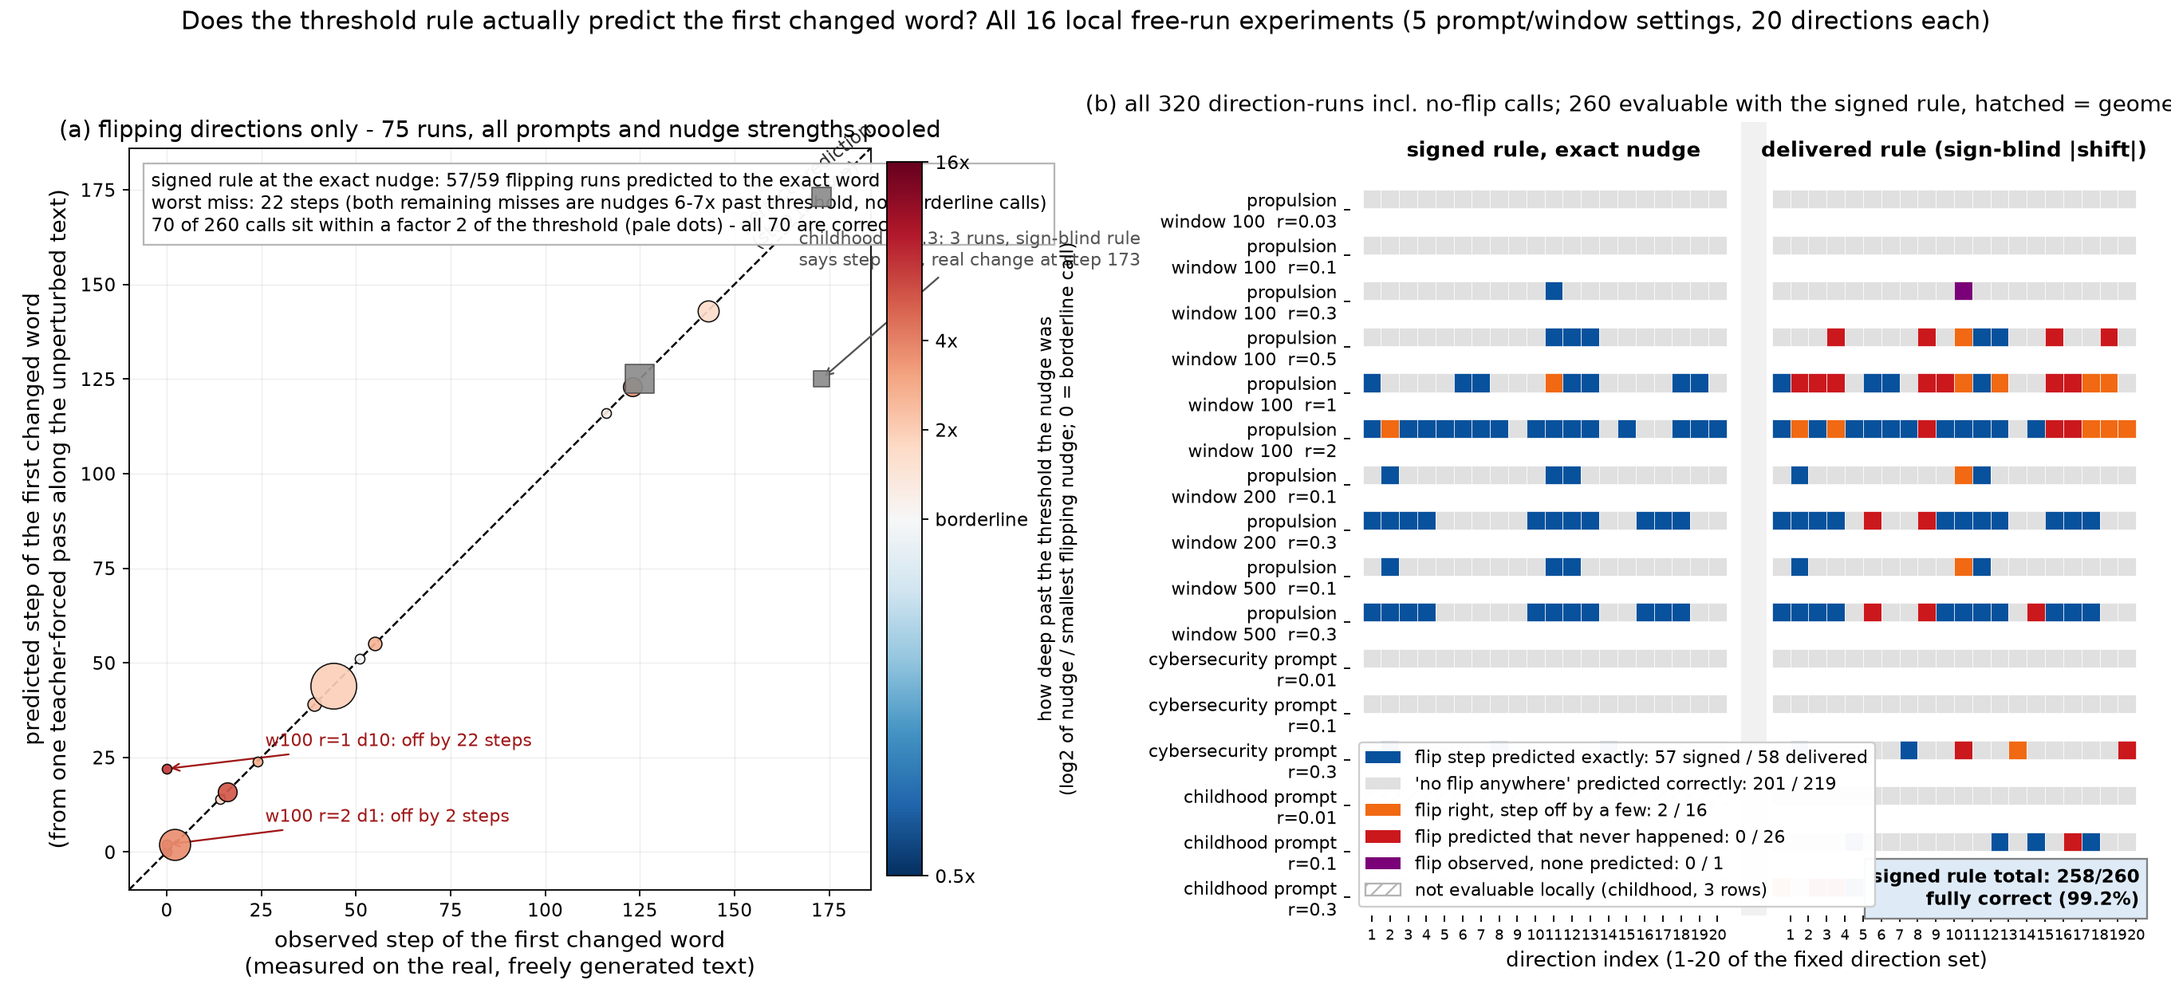
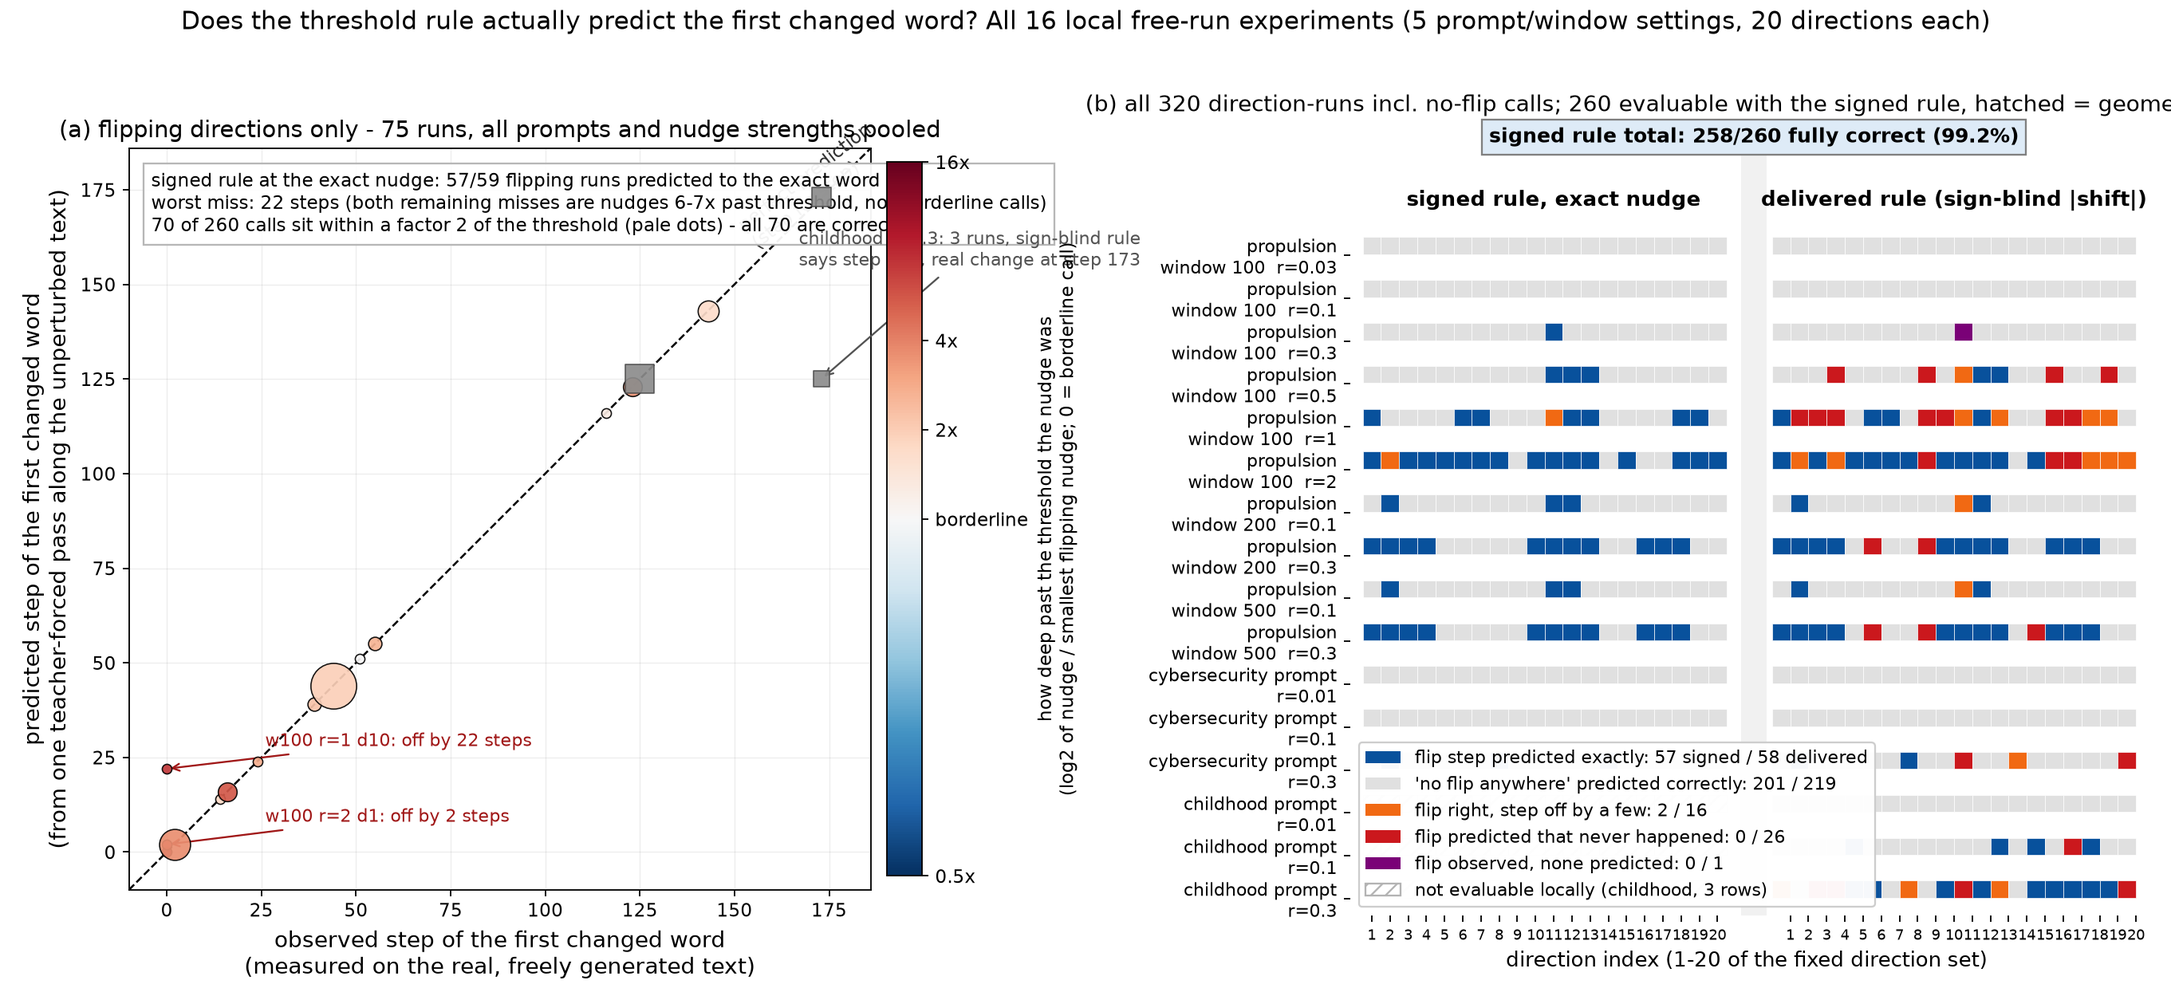
Document corrected depth picture and new current-state results

Changed region(s): [[0.5309, 0.1866, 0.9993, 0.933], [0.6558, 0.0933, 0.9993, 0.1555]]

diff --git a/results/subagent_dirs/t4_geom.py b/results/subagent_dirs/t4_geom.py
@@ -1,0 +1,184 @@
+"""TEST 4: is a direction's gain predictable from its geometry?
+
+Facts about the direction set (verified):
+- The 20 perturbation directions form a REGULAR SIMPLEX in a 20-dim subspace of
+  token-embedding space: row i of `simplex` has 0.975 on coordinate i and
+  -0.0513 on all others; mutual dot products are all -1/19; every row has the
+  same L1/L2 (1.95), same max coefficient (0.975), same sparsity.
+  => The ONLY geometric degree of freedom that varies across directions is
+  WHICH token axis (subspace[i]) a direction occupies. All simple scalar
+  predictors (L1/L2, largest coordinate) are constant by construction.
+
+What we CAN test:
+(a) cross-rollout persistence of per-direction gain (already: rho 0.80-0.98)
+    => gain is a property of (prompt, token axis), i.e. geometry, not of the
+    sampled continuation;
+(b) hidden-space geometry of the response: dh_last stores the actual
+    delta-h vectors at layer 27 for directions 0,1,2 -> are the responses of
+    different directions parallel (common error mode) or independent?
+(c) radial vs transverse: decompose dh relative to the baseline hidden state.
+"""
+import numpy as np
+import matplotlib.pyplot as plt
+
+from common import (L27, annot_heat, load_rollouts, load_w100, logd,
+                    save_json, savefig, spear)
+
+z = load_w100()
+dh, radii, layers = z["dh_norm"], z["radii"], z["layers"]
+cos_h, norm_h0 = z["cos"], z["norm_h0"]
+dh_last = z["dh_last"]
+simplex, subspace = z["simplex"].astype(np.float64), z["subspace"]
+D, T = dh.shape[1], dh.shape[-1]
+EX = [10, 9, 13]
+cols = ["#d62728", "#1f77b4", "#2ca02c"]
+
+N = {}
+G = simplex @ simplex.T
+offd = G[np.triu_indices(D, 1)]
+N["simplex_facts"] = {
+    "diag": float(np.diag(G)[0]), "offdiag_min": float(offd.min()),
+    "offdiag_max": float(offd.max()),
+    "row_L1_over_L2": float(np.abs(simplex).sum(1).max() / np.linalg.norm(simplex, axis=1).max()),
+    "row_max_coeff": [float(x) for x in np.abs(simplex).max(1)[:3]],
+    "note": "all rows identical up to permutation; regular simplex",
+}
+
+# (a) hot directions and their token axes, across rollouts
+ro = load_rollouts()
+rmap = {n: {float(rr): i for i, rr in enumerate(d["radii"])} for n, d in ro.items()}
+gains_ro = {}
+for n, d in ro.items():
+    gains_ro[n] = np.median(d["dh_norm"][rmap[n][0.1], :, -1], axis=-1)
+hot_tokens = {}
+for n in ro:
+    top = np.argsort(gains_ro[n])[-3:]
+    hot_tokens[n] = [(int(i), int(subspace[i]), float(gains_ro[n][i])) for i in top]
+N["hot3_tokenaxes_by_rollout"] = hot_tokens
+N["gain_spread_by_rollout"] = {n: float(gains_ro[n].max() / gains_ro[n].min()) for n in ro}
+
+# (b) hidden-space response geometry: dh vectors for dirs 0,1,2 at layer 27
+def pair_cos(ridx):
+    """median over t of cos(dh_i, dh_j) from dh_last, + cos(dh, h0)."""
+    V = dh_last[ridx]                       # [3, T, 1536]
+    nrm = np.linalg.norm(V, axis=-1)        # [3, T]
+    out = {}
+    for (i, j) in [(0, 1), (0, 2), (1, 2)]:
+        cs = (V[i] * V[j]).sum(-1) / np.maximum(nrm[i] * nrm[j], 1e-30)
+        out[f"cos({i},{j})"] = float(np.median(cs))
+    return out
+
+cos_pairs = {f"r={radii[r]:g}": pair_cos(r) for r in [4, 9, 11]}
+N["response_vector_cosines_layer27"] = cos_pairs
+print("response vector cosines:", cos_pairs)
+
+# per-token distributions for the figure at r=0.1 and r=2
+def pair_cos_t(ridx):
+    V = dh_last[ridx]
+    nrm = np.linalg.norm(V, axis=-1)
+    return [(V[0] * V[1]).sum(-1) / np.maximum(nrm[0] * nrm[1], 1e-30),
+            (V[0] * V[2]).sum(-1) / np.maximum(nrm[0] * nrm[2], 1e-30),
+            (V[1] * V[2]).sum(-1) / np.maximum(nrm[1] * nrm[2], 1e-30)]
+P01 = pair_cos_t(4)
+P2 = pair_cos_t(11)
+N["cos12_median_r0.1"] = float(np.median(P01[0]))
+N["cos12_median_r2"] = float(np.median(P2[0]))
+
+# input-space off-diagonal cosine for reference
+N["input_offdiag_cos"] = float(offd.mean())
+
+# (c) angle between the response and the baseline state.
+# The stored cos(h',h) equals 1/sqrt(1+(|dh|/|h|)^2) to within 1e-4 (verified),
+# i.e. the response is essentially transverse; solving exactly for the radial
+# component:  <dh,h> = c|h||h'| - |h|^2, |h'| = c|h| + sqrt(c^2|h|^2 - |h|^2 + |dh|^2)
+def cos_dh_h(ridx):
+    c = cos_h[ridx, :, L27]
+    d = dh[ridx, :, L27]
+    h = norm_h0[L27][None, :]
+    disc = np.maximum(c * c * h * h - h * h + d * d, 0)
+    y = c * h + np.sqrt(disc)
+    return (c * y - h) / np.maximum(d, 1e-30)
+
+a2 = cos_dh_h(11)
+med_ang = np.median(a2, axis=1)                # per-direction
+N["cos_dh_vs_h0_r2"] = {
+    "median": float(np.median(a2)), "median_abs": float(np.median(np.abs(a2))),
+    "p90_abs": float(np.percentile(np.abs(a2), 90)),
+    "genericity_scale": float(1 / np.sqrt(1536)),
+    "frac_abs_gt_0.1": float((np.abs(a2) > 0.1).mean()),
+    "per_direction": [float(x) for x in med_ang],
+}
+g01 = np.median(dh[4, :, L27], axis=-1)
+N["spearman_absradial_vs_gain"] = spear(np.abs(med_ang), g01)
+print("cos(dh,h0) at r=2, L27: median %.3f, |.| median %.3f (genericity %.3f), "
+      "frac>0.1: %.2f, spearman(|radial|,gain) = %.2f" %
+      (np.median(a2), np.median(np.abs(a2)), 1 / np.sqrt(1536),
+       (np.abs(a2) > 0.1).mean(), N["spearman_absradial_vs_gain"]))
+
+# ---------------- FIGURE ----------------
+fig, axs = plt.subplots(2, 2, figsize=(12.5, 9))
+
+ax = axs[0, 0]
+S6 = np.abs(simplex[:6, :6])
+annot_heat(ax, S6, [f"tok{subspace[i]}" for i in range(6)],
+           [f"dir {i}" for i in range(6)],
+           "(a) Direction coordinates in the 20-token subspace (6x6 corner)\n"
+           f"ALL 20 rows: max coeff 0.975 on own axis, {abs(simplex[0,1]):.3f} on the other 19;\n"
+           f"L1/L2 = 1.95 for every direction (no sparsity variation by design)",
+           cmap="Blues", vmin=0, vmax=1.0, fmt="{:.2f}", fs=7)
+
+ax = axs[0, 1]
+data = [P01[k] for k in range(3)] + [P2[k] for k in range(3)]
+lbls = ["dirs 0-1, r=0.1", "dirs 0-2, r=0.1", "dirs 1-2, r=0.1",
+        "dirs 0-1, r=2", "dirs 0-2, r=2", "dirs 1-2, r=2"]
+bp = ax.boxplot(data, labels=lbls, showfliers=False, patch_artist=True)
+for p, c in zip(bp["boxes"], ["#aec7e8"] * 3 + ["#ffbb78"] * 3):
+    p.set_facecolor(c)
+ax.axhline(0, color="k", lw=0.6, label="cos = 0 (independent responses)")
+ax.axhline(offd.mean(), color="r", ls="--", lw=1,
+           label=f"input-space cosine between directions = {offd.mean():.3f}")
+ax.set_ylabel("cosine between delta-h vectors of two directions (layer 27, per token)")
+ax.tick_params(axis="x", rotation=20, labelsize=7)
+ax.set_title(f"(b) Do different directions push the hidden state the same way?\n"
+             f"median cos(dirs 0,1): {N['cos12_median_r0.1']:.2f} (r=0.1) -> "
+             f"{N['cos12_median_r2']:.2f} (r=2)")
+ax.legend(fontsize=7)
+
+ax = axs[1, 0]
+o = np.argsort(med_ang)
+ax.bar(range(D), med_ang[o], color="gray")
+for k, d in enumerate(EX):
+    ax.bar(np.where(o == d)[0], med_ang[d], color=cols[k], label=f"dir {d}")
+ax.set_xticks(range(D)); ax.set_xticklabels([f"{i}" for i in o], fontsize=6)
+ax.set_xlabel("direction (sorted by radialness)")
+ax.set_ylabel("median over t of cos(delta h, baseline h)\n1 = pure inflation, 0 = pure rotation/deflection")
+ax.set_title(f"(c) Radial vs transverse response, r=2, layer 27\n"
+             f"median {np.median(a):.2f}; spread 10-90% = "
+             f"[{np.percentile(a,10):.2f}, {np.percentile(a,90):.2f}]; "
+             f"spearman vs gain = {N['spearman_radialness_vs_gain_r2']:.2f}")
+ax.legend(fontsize=7)
+
+ax = axs[1, 1]
+o = np.argsort(gains_ro["w100"])
+w = 0.27
+ax.bar(np.arange(D) - w, gains_ro["w100"][o], width=w, label="w100 continuation")
+ax.bar(np.arange(D), gains_ro["w200"][o], width=w, label="w200 continuation")
+ax.bar(np.arange(D) + w, gains_ro["w500"][o], width=w, label="w500 continuation")
+ax.set_yscale("log")
+ax.set_xticks(range(D)); ax.set_xticklabels([f"{i} (tok {subspace[i]})" for i in o],
+                                            fontsize=5.5, rotation=90)
+ax.set_ylabel("gain at r=0.1, layer 27 (median ||dh_t||, log scale)")
+ax.set_xlabel("direction, sorted by w100 gain (token axis id in label)")
+ax.set_title(f"(d) SAME direction set, 3 different sampled continuations\n"
+             f"gain is a stable property of the token axis: hot trio = dirs "
+             f"{np.argsort(gains_ro['w100'])[-3:].tolist()} (tokens "
+             f"{[int(subspace[i]) for i in np.argsort(gains_ro['w100'])[-3:]]})")
+ax.legend()
+
+fig.suptitle("TEST 4: gain vs geometry - directions differ only by which token axis "
+             "they occupy, and that DOES predict gain", y=1.005)
+savefig(fig, "fig4_geometry.png")
+save_json("numbers_t4.json", N)
+print("hot token axes by rollout:", hot_tokens)
+print("gain spread by rollout:", N["gain_spread_by_rollout"])
+print("saved fig4 + numbers_t4.json")

diff --git a/results/subagent_threshold2/f4_ladder.py b/results/subagent_threshold2/f4_ladder.py
@@ -52,14 +52,8 @@ def draw(ax, nm, radii_obs, xlo, xhi, cb_ticks):
         # colored dot at the signed threshold
         ax.plot([rstar[d]], [yi], "o", color=cmap((tstar[d] - vmin) / (vmax - vmin)),
                 mec="k", ms=9.5, mew=0.7, zorder=5)
-        extra = ""
-        if nm == "w100" and d == 14:
-            extra = ("  <- bar says flips at 0.33, but nothing flipped at\n"
-                     "      r=0.5 or 1; at r=2 it flips at word 2, not 123:\n"
-                     "      its shrink at word 123 becomes a widening")
-        ax.text(xhi * 1.06, yi, f"word {tstar[d]:3d}, gap {c.m[tstar[d]]:.3f}"
-                + extra, fontsize=8.8, va="center", ha="left",
-                color="#a01717" if extra else "0.15")
+        ax.text(xhi * 1.06, yi, f"word {tstar[d]:3d}, gap {c.m[tstar[d]]:.3f}",
+                fontsize=8.8, va="center", ha="left", color="0.15")
         ax.text(xlo * 0.94, yi, f"d{d:2d}", fontsize=8.8, va="center", ha="right",
                 color="0.35")
     # observed free-run radii
@@ -127,6 +121,13 @@ handles = [
 ]
 fig.legend(handles=handles, loc="lower center", ncol=3, fontsize=10.2,
            frameon=False, bbox_to_anchor=(0.5, 0.005))
+fig.text(0.5, -0.055,
+         "red flag: d14's bar says any nudge > 0.33 flips it at word 123, but "
+         "nothing flipped at r=0.5 or 1 - at r=2 it finally flips at word 2, "
+         "not 123:\nits gap-shrink at word 123 turns into a gap-widening at "
+         "large nudges (same superlinear drift as figs 5-6); the ladder is "
+         "built at the small clean nudge, so treat it as the r < 0.3 danger map",
+         fontsize=10, ha="center", color="#a01717")
 fig.subplots_adjust(left=0.025, right=0.975, top=0.86, bottom=0.145, wspace=0.45)
 fig.savefig("fig4_danger_ladder.png", dpi=165, bbox_inches="tight")
 print("saved fig4_danger_ladder.png; w100 obs radii:", obs100,

diff --git a/results/subagent_d2b/summarize2.py b/results/subagent_d2b/summarize2.py
@@ -1,0 +1,30 @@
+import json
+import numpy as np
+
+d = json.load(open('shape2.json'))
+
+def fmt(x, nd=2):
+    if x is None:
+        return 'None'
+    return ('%.' + str(nd) + 'f') % x
+
+for name in ['launch', 'interstellar']:
+    for oname in ['pc1', 'norm', 'stepdist']:
+        print('====', name, '/', oname, '(tau=1)')
+        for m in [2, 3, 4, 5, 6, 8, 10]:
+            k = 'm%d_tau1' % m
+            v = d[name]['scan'][oname].get(k)
+            if v is None:
+                continue
+            bf = v['best_1dec_fit_r2']
+            bfs = 'None' if bf is None else 'd2=%.2f r2=%.3f eps=[%.3g,%.3g]' % tuple(bf)
+            print('  m=%2d N=%d slope@C.1=%s slope@C.5=%s widest_flat=%s dec @slope=%s best1dec: %s' % (
+                m, v['N'], fmt(v['slope_at_C.1']), fmt(v['slope_at_C.5']),
+                fmt(v['widest_flat_dec']), fmt(v['widest_flat_slope']), bfs))
+print()
+print('best candidate:', d['launch']['best_candidate'])
+print('henon:', d['henon'])
+print('lorenz:', d['lorenz'])
+print('ar1:', d['ar1'])
+print('launch_pc1_ref:', d['launch_pc1_ref'])
+print('cyber theiler detail:', json.dumps(d['cyber_raw_theiler_detail'], indent=1))

diff --git a/results/subagent_threshold2/f5_breakdown.py b/results/subagent_threshold2/f5_breakdown.py
@@ -71,10 +71,10 @@ ax.text(0.031, 2.8,
         "nudge\nin this range - 99.2% exact (fig2).",
         fontsize=9.6, ha="center", va="top",
         bbox=dict(fc="white", ec="0.5"))
-ax.text(1.02, 30,
+ax.text(1.9, 30,
         "superlinear:\nmedian 1.55x by r=2,\nties drift apart\n(word 2 doubles,\n"
         "word 123 stays flat)\n-> the first flip\nmoves to a different\nword",
-        fontsize=9.6, ha="left", va="top", color="#8c4a04",
+        fontsize=9.6, ha="right", va="top", color="#8c4a04",
         bbox=dict(fc="#fff3e0", ec="#fdbb84"))
 
 ax.set_xscale("log"); ax.set_yscale("log")
@@ -124,7 +124,7 @@ ax2.set_title("(b) propulsion prompt: how many directions flip, observed vs "
               "three prediction variants", fontsize=12.3)
 ax2.legend(loc="upper left", fontsize=9.8, framealpha=0.95)
 ax2.grid(alpha=0.3, which="both", lw=0.5)
-ax2.text(0.032, -0.55,
+ax2.text(0.032, 13.8,
          "same-radius rule: exact at every nudge (red squares sit on black "
          "circles).\nLinear extrapolation gets the COUNT roughly right but the "
          "STEP wrong: at r=2 only 2\nof 16 flipping steps are exact - worst "

diff --git a/results/subagent_threshold2/f2_scorecard.py b/results/subagent_threshold2/f2_scorecard.py
@@ -228,10 +228,11 @@ handles = [
 ]
 axb.legend(handles=handles, loc="lower left", fontsize=9.6, framealpha=0.97,
            bbox_to_anchor=(0.0, 0.0))
-axb.text(42.2, NY - 0.7,
-         "signed rule total: 258/260\nfully correct (99.2%)",
-         fontsize=10.2, ha="right", va="bottom", weight="bold",
+axb.text(21, -2.75,
+         "signed rule total: 258/260 fully correct (99.2%)",
+         fontsize=11, ha="center", va="center", weight="bold",
          bbox=dict(fc="#deebf7", ec="0.5"))
+axb.set_ylim(NY - 0.6, -3.1)
 
 fig.suptitle("Does the threshold rule actually predict the first changed word? "
              "All 16 local free-run experiments (5 prompt/window settings, 20 "

diff --git a/docs/RESULTS_SUMMARY.md b/docs/RESULTS_SUMMARY.md
@@ -4,7 +4,7 @@ Window 100 unless stated. Prompt `interstellar_travel` (65 tokens), 300 generate
 
 ## 0. Corrections to earlier claims (read first)
 
-1. **"The depth expansion is only radial scale drift; every block contracts."** This is true for a *fixed token position* (the same-position tangent product) but **false for the prompt-perturbation response**. Measured directly: from layer 2 to layer 27 the perturbation grows ×365 while the state length grows ×12.5, so the *relative* perturbation grows ×29. Only the last block contracts slightly (×0.82). The difference is cross-position attention spreading, which the same-position tangent product cannot see. Do not use the "all blocks contract" sentence for the response.
+1. **"The depth expansion is only radial scale drift; every block contracts."** Wrong for the prompt-perturbation response. The state length grows ×452, but the perturbation is **nearly perpendicular to the state (86–87°)**, and its *relative* size grows ×10 across the depth (shrinking only in the final band, ×0.84). The same-position tangent product does contract, but it cannot see the cross-position spreading that produces the response. See section 4.
 2. **Teacher forcing is an exact simulator up to the first flip.** One teacher-forced pass on the perturbed prompt reproduces whether the free run flips, the exact step, and the exact new token (29/29 flips, 0 false positives in 140 cases; 111/111 no-flip cases). After the flip the two runs have different prefixes and comparison stops being meaningful. This is a stronger and simpler validation than the linear-threshold scorecard.
 3. **Window causality is now demonstrated with identical inputs.** With one fixed token sequence and five windows (100/150/200/300/1000), each curve is bit-identical to the 1000-token control until exactly `t = window − prompt_len`, then departs (35/85/135/235 for windows 100/150/200/300). See `a1_window_fixed_inputs.png`.
 4. **Flips are of two kinds.** 17/27 observed flips happen at the response peak ("immediate"); 10/27 happen at a later close call after the response has already faded to <30% of its peak ("delayed", t=116/123/143). A single-token kick at s=16 changes no token immediately but changes the token at t=123, i.e. 107 tokens later. See `flip_is_a_close_call.png`, `state_current_depth.png`.
@@ -80,11 +80,11 @@ Measured from the same A1 run (prompt perturbation, r=0.1, median over 20 direct
 | 21 | 199.4 | 6.6e-2 | 3.3e-4 |
 | 27 | 545.3 | 1.5e-1 | 2.7e-4 |
 
-- The state length grows ×12.5 from layer 2 to 27; the perturbation grows ×365. **The relative perturbation grows ×29.** The expansion is therefore not only a change of scale.
-- The perturbation is almost exactly parallel to the state: the stored cosine is 0.99999994, at float32 resolution, i.e. an angle of ≲0.02°. The small perpendicular part is what can change the logits.
-- Only the final block contracts relative size (×0.82), consistent with the final normalisation step.
-- **What the same-position tangent product says (and why it differs):** a fixed token position’s depth map has aligned gain ≈1.0–1.1 per block while the state scale grows ≈1.1–1.2 per block, so a *same-position* perturbation loses relative size (max normalised exponent −0.034). This is a component-level statement. The full prompt-perturbation response also spreads *across positions* through attention, and that cross-position path is what produces the ×365 growth. The same-position product cannot see it, so it must not be used to describe the response.
-- Practical consequence: report both numbers, and never claim “the depth expansion is only radial drift” for the full response.
+- The state length grows **×452** from the embedding to the last layer (×29 inside block 0). The raw perturbation grows **×365** from layer 2 to 27; the *relative* perturbation grows **×10** across the depth and shrinks only in the final band (×0.84 from L21 to L27).
+- **The perturbation is not radial.** Measured with the saved full vectors, the angle between the perturbation and the state is **86–87° at every radius** (r=1e-3…2), i.e. almost perpendicular: it changes the *direction* of the state. The "cosine ≈ 1" stored in `a1.npz` is a **float32 floor artifact** (any angle below ~0.03° is stored as exactly 1.0); do not use it to claim radiality.
+- **Why the output is still sensitive:** the network normalises the state length before the logits, so a pure length change would be invisible. Consistent with this, the measured margin change tracks the perpendicular part linearly: `|δm| ≈ 4 × (perpendicular length / |h|)`.
+- **Same-position tangent product vs full response:** a fixed token position's depth map has aligned gain ≈1.0–1.1 per block while the state scale grows ≈1.1–1.2 per block, so that product contracts relative to scale (max normalised exponent −0.034). The full prompt-perturbation response grows because attention carries the perturbation to other positions. The two objects disagree; report both, and do not use the same-position product to describe the response.
+- **Open question:** the old ensemble FSLE shows a flat mid-depth spread (implying relative contraction), while the new teacher-forced data shows +0.04–0.05 nats/layer relative growth. A same-run re-measurement is needed before calling either "the" depth law.
 
 ## 5. Non-normality: composition answer
 

diff --git a/results/subagent_radial/REPORT.md b/results/subagent_radial/REPORT.md
@@ -62,7 +62,8 @@ the length away (RMSNorm) right before converting the vector into next-token sco
   unit: +0.95 nats/layer ≈ growth ×2.6 per layer); after removing the per-layer
   state-length growth every exponent is negative — sum **−0.42…−1.15 (median −0.836) nats/layer**, maximum single
   relative exponent **−0.039** (docs cite −0.034; same conclusion). From the old ensemble spread curves (FSLE): absolute
-  separation growth **×206–215 net** (reached by layer ~2: ×240–262, then flat-to-declining), which becomes **×0.45–0.48
+  separation growth **×206–215 net** (×240 already by layer 2, peak ×244–262 near layer 8, then
+  flat-to-declining), which becomes **×0.45–0.48
   relative** — *net*: the relative separation first **grows ×6.7 by layer 2**, then falls ×15 as the state lengthens
   while the spread does not. **Best figure: `fig5_exponents.png`** (also the honest note that the new teacher-forced
   data does *not* show the mid-depth contraction the FSLE/JVP numbers suggest).
